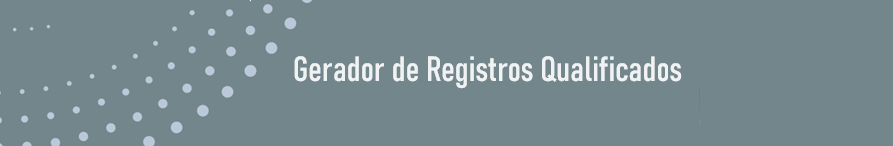
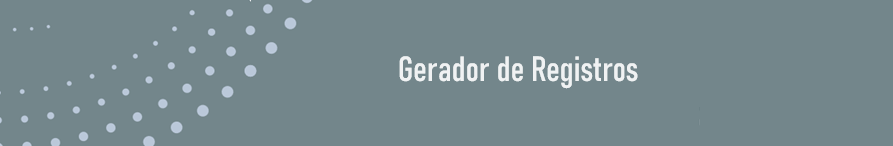
Revisão das mensagens via alerts

Changed region(s): [[0.3024, 0.3836, 0.7861, 0.6027]]

diff --git a/index.html b/index.html
@@ -1,24 +1,23 @@
 <!DOCTYPE html>
 <html lang="pt-br">
-
 <head>
 	<meta charset="UTF-8">
 	<meta http-equiv="X-UA-Compatible" content="IE=edge">
 	<meta name="viewport" content="width=device-width, initial-scale=1.0">
 	<meta name="author" content="Adilson Andrade">
-	<meta name="description" content="Gerador de registros qualificados para sistema educacional">
+	<meta name="description" content="Gerador de registros para sistema educacional">
 	<meta name="keywords" content="educacional, feedback, registros, qualificados">
 	<meta name="copyright" content="© 2024 Senac">
 	<meta name="rating" content="general">
-  <title>Gerador de Registros Qualificados</title>
+  <title>Gerador de Registros</title>
   <link rel="stylesheet" type="text/css" href="css\styles.css" media="screen" />
   <link rel="shortcut icon" href="image\favicon.ico" />    
   <script type="text/javascript" src="js\script.js"></script>
 </head>
   <body onload="Listener();">  
-    <img  src="image\banner.png" alt="LABSenacSOR">
     <div class="grid-container">
         <div class="grid-item">
+          <img  src="image\banner.png" alt="LABSenacSOR">                
             <form id="formDiscente">
                 <p>
                     <label>Selecione o perfil discente:</label><br>
@@ -38,25 +37,19 @@
                     <label>Conversou pessoalmente?</label><br>
                     <label>
                       <input type="radio" name="tipoRegistro" value="<h3>AÇÕES DE FEEDBACK</h3> 
-                      O feedback é uma devolutiva ao estudante sobre o resultado de uma avaliação.<br>
-                      O registro da devolutiva deve evidenciar os avanços e desafios do estudante no seu processo de aprendizagem.<br> 
-                      Não há limite para essa ação, sendo possível realizar quantos registros forem necessários ao longo da unidade curricular.
+                      O feedback é uma devolutiva ao estudante sobre o resultado de uma avaliação, esse registro deve evidenciar os avanços e desafios do estudante no seu processo de aprendizagem.<br> 
+                      É possível realizar quantos registros de feedback forem necessários ao longo da unidade curricular.
                       " required>
                       Sim
                     </label>
                     <label>
                       <input type="radio" name="tipoRegistro" value="<h3>OBSERVAÇÕES DO ALUNO</h3> 
-                      O campo Observações do aluno é opcional e auxilia os docentes e as equipes técnicas e de secretaria a acompanharem e entenderem o processo educacional.<br>
-                      Neste campo procure registrar informações adicionais ao processo de aprendizagem do estudante.<br>
-                      Evite registros sobre atrasos ou saídas antecipadas <b>SEM ESCLARECER</b> o que foi perdido ou impossível observar pela ausência do aluno.">
+                      O campo Observações do aluno auxilia os docentes e as equipes técnicas e de secretaria a acompanharem e entenderem o processo educacional.<br>
+                      Registre informações adicionais ao processo de aprendizagem do estudante, você sempre <b>DEVE ESCLARECER</b> o que foi perdido ou comprometido ao registrar suas observações.">
                       Não
                     </label>
                   </p>            
-            </form>            
-<!--
-        </div>        
-        <div class="grid-item">
--->            
+            </form>                   
             <label>Realizar registro sobre:</label><hr>            
             <form id="itens">
                 <input type="checkbox" id="item1" name="item1" value="sobre a necessidade de FREQUÊNCIA nas atividades conforme cronograma:  Orientação que A frequência mínima de 75% é obrigatória para aprovação e é apurada na carga horária total ministrada em cada componente curricular., conforme Título VI - Da Avaliação do Estudante, Capítulo II – dos Critérios e Formas de Avaliação, Seção I – Da Frequência - Artigo 55 do Regimento Escolar Vigente.">
@@ -89,13 +82,8 @@
             </br>
             <button onclick="clearSelection()">Limpar Seleção</button>
             
-            <button onclick="generateFeedback()">Gerar Feedback</button>            
-<!--
-        <div class="grid-item">
-            <button onclick="generateFeedback()">Gerar Feedback</button>
-        </div>
-
--->        </div>        
+            <button onclick="generateFeedback()">Gerar Registro</button>            
+        </div>        
         <div class="grid-item">
             <p id="tipoRegistro"></p>
             <textarea id="feedback" rows="20"></textarea>
@@ -103,8 +91,4 @@
         </div>
     </div>
 </body>
-<!--
-https://htmlreference.io/forms/
-https://opensource.locaweb.com.br/locawebstyle-v2/manual/formularios/mascaras-forms/
--->
 </html>

diff --git a/js/script.js b/js/script.js
@@ -1,3 +1,5 @@
+var originalFeedback = "";
+
 function Listener() {
         // Selecione o elemento radio button
         const radioButtons = document.querySelectorAll('input[name="tipoRegistro"]');
@@ -14,7 +16,7 @@ function Listener() {
                 // Atualize o conteúdo da label
                 // tipoRegistroLabel.textContent = selectedValue;
                 tipoRegistroLabel.innerHTML = selectedValue;
-                generateFeedback();
+                //generateFeedback();
             });
         });
 }
@@ -42,31 +44,61 @@ function Listener() {
                 }
             }
         
+            originalFeedback = feedback; // Armazene o feedback originalmente gerado            
             document.getElementById("feedback").value = feedback;
         
             var paragraph = document.createElement('p');
             paragraph.innerHTML = `**${tiporegistro}**`; // Interpolação de string
 
-            alert('Revise o texto gerado e acrescente quaisquer informações que julgar necessário para obter um registro que gere subsídios ao acompanhamento do processo educacional.');
-
+            alert('O registro é um documento formal e possui as seguintes características:\n' +
+            '- é um registro institucional;\n' +
+            '- guarda a memória de uma trajetória formativa;\n' +
+            '- é uma fonte importantíssima de informações, tanto para o aluno como para o docente;\n' +
+            '- é um instrumento de comunicação, entretanto não tem a finalidade de registrar opinião pessoal ou expressar um julgamento sobre o aluno que não contribuem para o processo formativo;');
         }
 
         function clearSelection() {
-            var form = document.getElementById("itens");
-            for (var i = 0; i < form.elements.length; i++) {
-                form.elements[i].checked = false;
+            var formItens = document.getElementById("itens");
+            var formDiscente = document.getElementById("formDiscente");
+            var formTipoRegistro = document.getElementById("formTipoRegistro");
+        
+            // Limpar seleção em formItens
+            for (var i = 0; i < formItens.elements.length; i++) {
+                formItens.elements[i].checked = false;
             }
+        
+            // Limpar seleção em formDiscente
+            for (var i = 0; i < formDiscente.elements.length; i++) {
+                formDiscente.elements[i].checked = false;
+            }
+        
+            // Limpar seleção em formTipoRegistro
+            for (var i = 0; i < formTipoRegistro.elements.length; i++) {
+                formTipoRegistro.elements[i].checked = false;
+            }
+        
             document.getElementById("feedback").value = "";
         }
-
+        
         function copyToClipboard() {
             var textarea = document.getElementById("feedback");
+        
+            if (textarea.value === originalFeedback) {
+                alert('ATUALIZE O TEXTO SUGERIDO, com o objetivo de:\n' +
+                '----------------------------------------------------------\n' +
+                'ESCLARECER: diga exatamente os aspectos mais relevantes do processo de avaliação. \n' +
+                'VALORIZAR: a valorização não pode ser um discurso vazio e subjetivo, deve enfocar os aspectos mais relevantes do desenvolvimento do aluno para que (ele) perceba como evolui dentro do processo educacional. \n' +
+                'SUGERIR: os aspectos que podem ser aprimorados e também as ações que contribuirão para o desenvolvimento do aluno. \n' +
+                'QUESTIONAR: faça perguntas que o leve a identificar algumas dificuldades ou aspectos percebidos durante o processo, seja nas atividades das situações de aprendizagem seja em alguma situação de avaliação específica.');
+                textarea.select();                
+                return false;
+            }
+        
             textarea.select();
             document.execCommand("copy");
             alert('Pressione CTRL V no Sistema Educacional ');
             return false;            
         }
-
 
     function validateFormDiscente() {
         var radios = document.getElementsByName('discente');
@@ -99,7 +131,6 @@ function Listener() {
     
 
     function validateFormItens() {    
-//        document.getElementById('itens').addEventListener('submit', function(e) {
         var checkboxes = document.querySelectorAll('input[type="checkbox"]');
         var checkedOne = Array.prototype.slice.call(checkboxes).some(x => x.checked);
         if (!checkedOne) {

diff --git a/css/styles.css b/css/styles.css
@@ -16,6 +16,14 @@ body {
     }
     p {
         font-size: 1rem; /* 16px (base de 16px) */
+        margin-left: auto;
+        margin-right: auto        
+    }
+    img {
+        width: 100%;
+        display: block;
+        margin-left: auto;
+        margin-right: auto
     }
 
     
@@ -30,11 +38,6 @@ body {
     font-size: 20px;
     text-align: left;
 }
-
-/*textarea {
-    width: 100%;
-    height: 100%;
-}*/
 
 textarea {
     width: 100%;    
